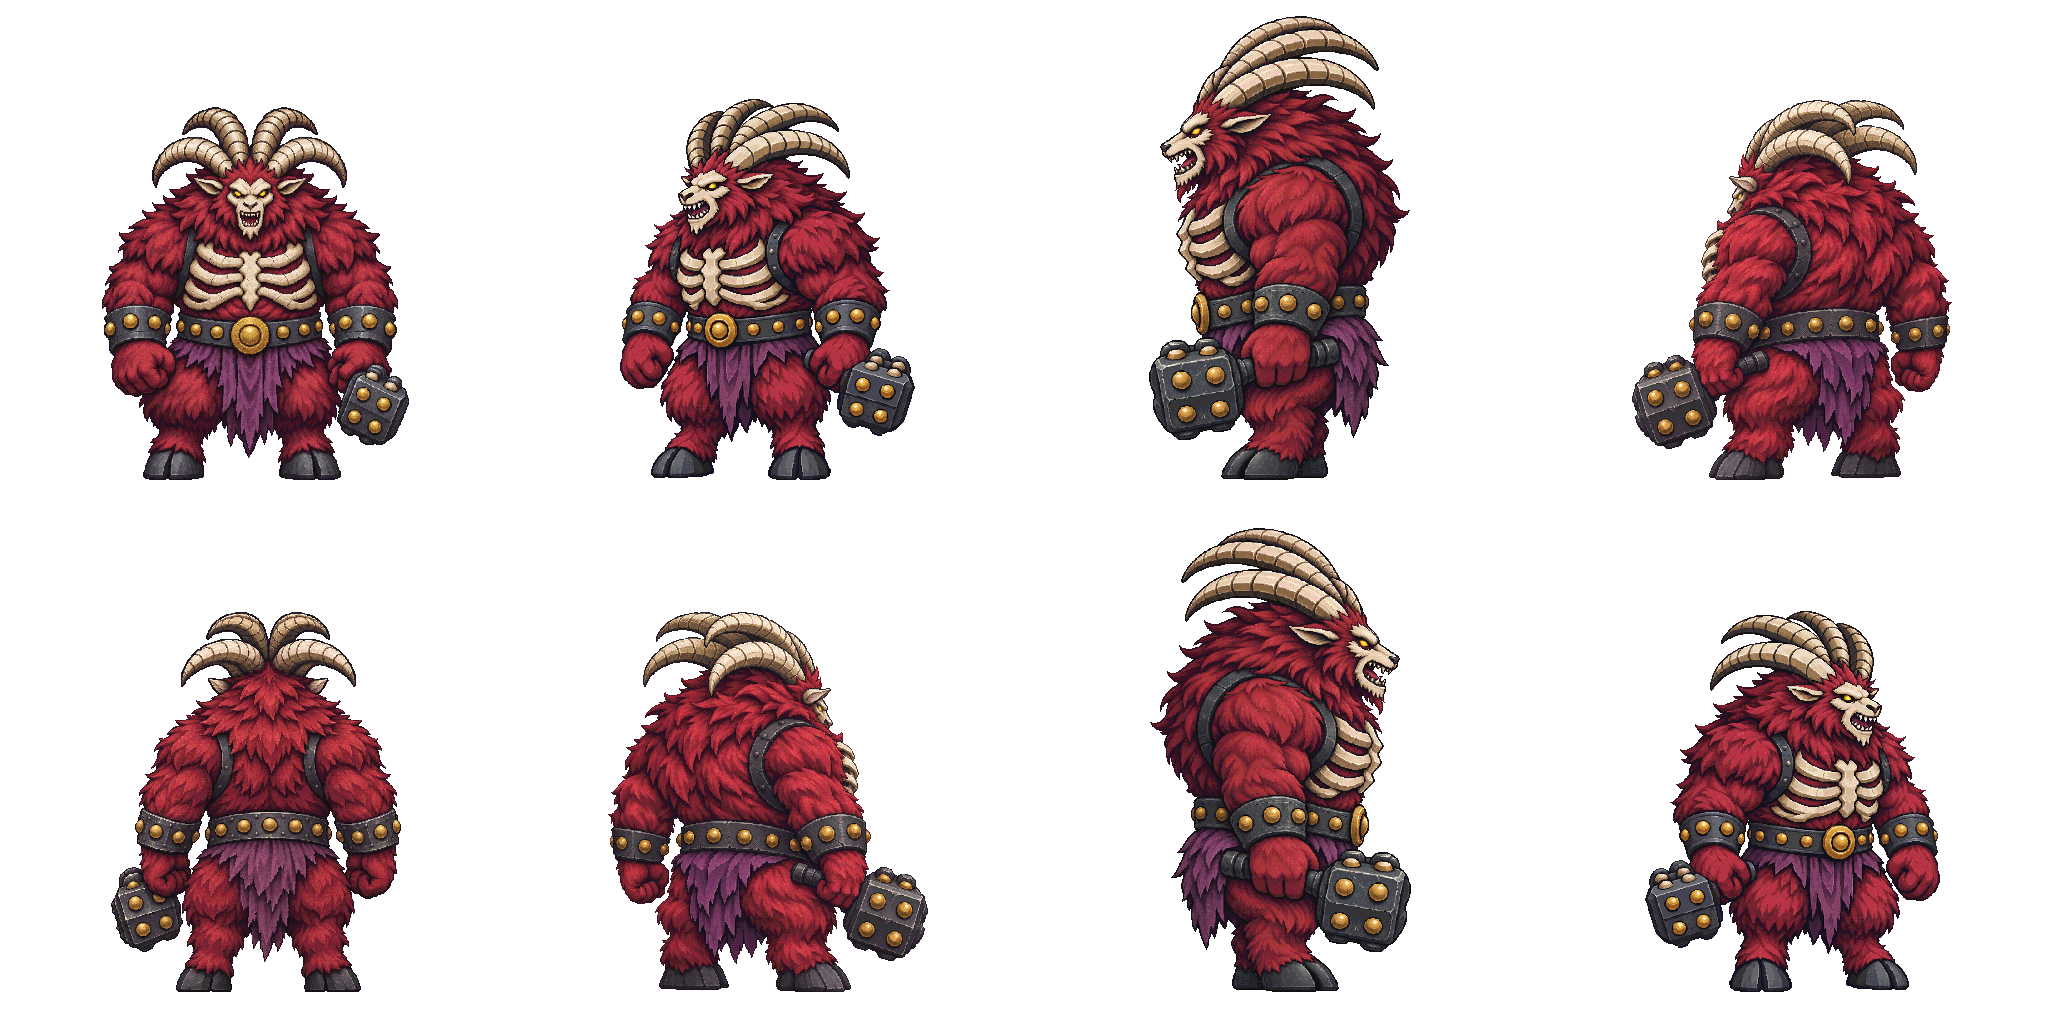
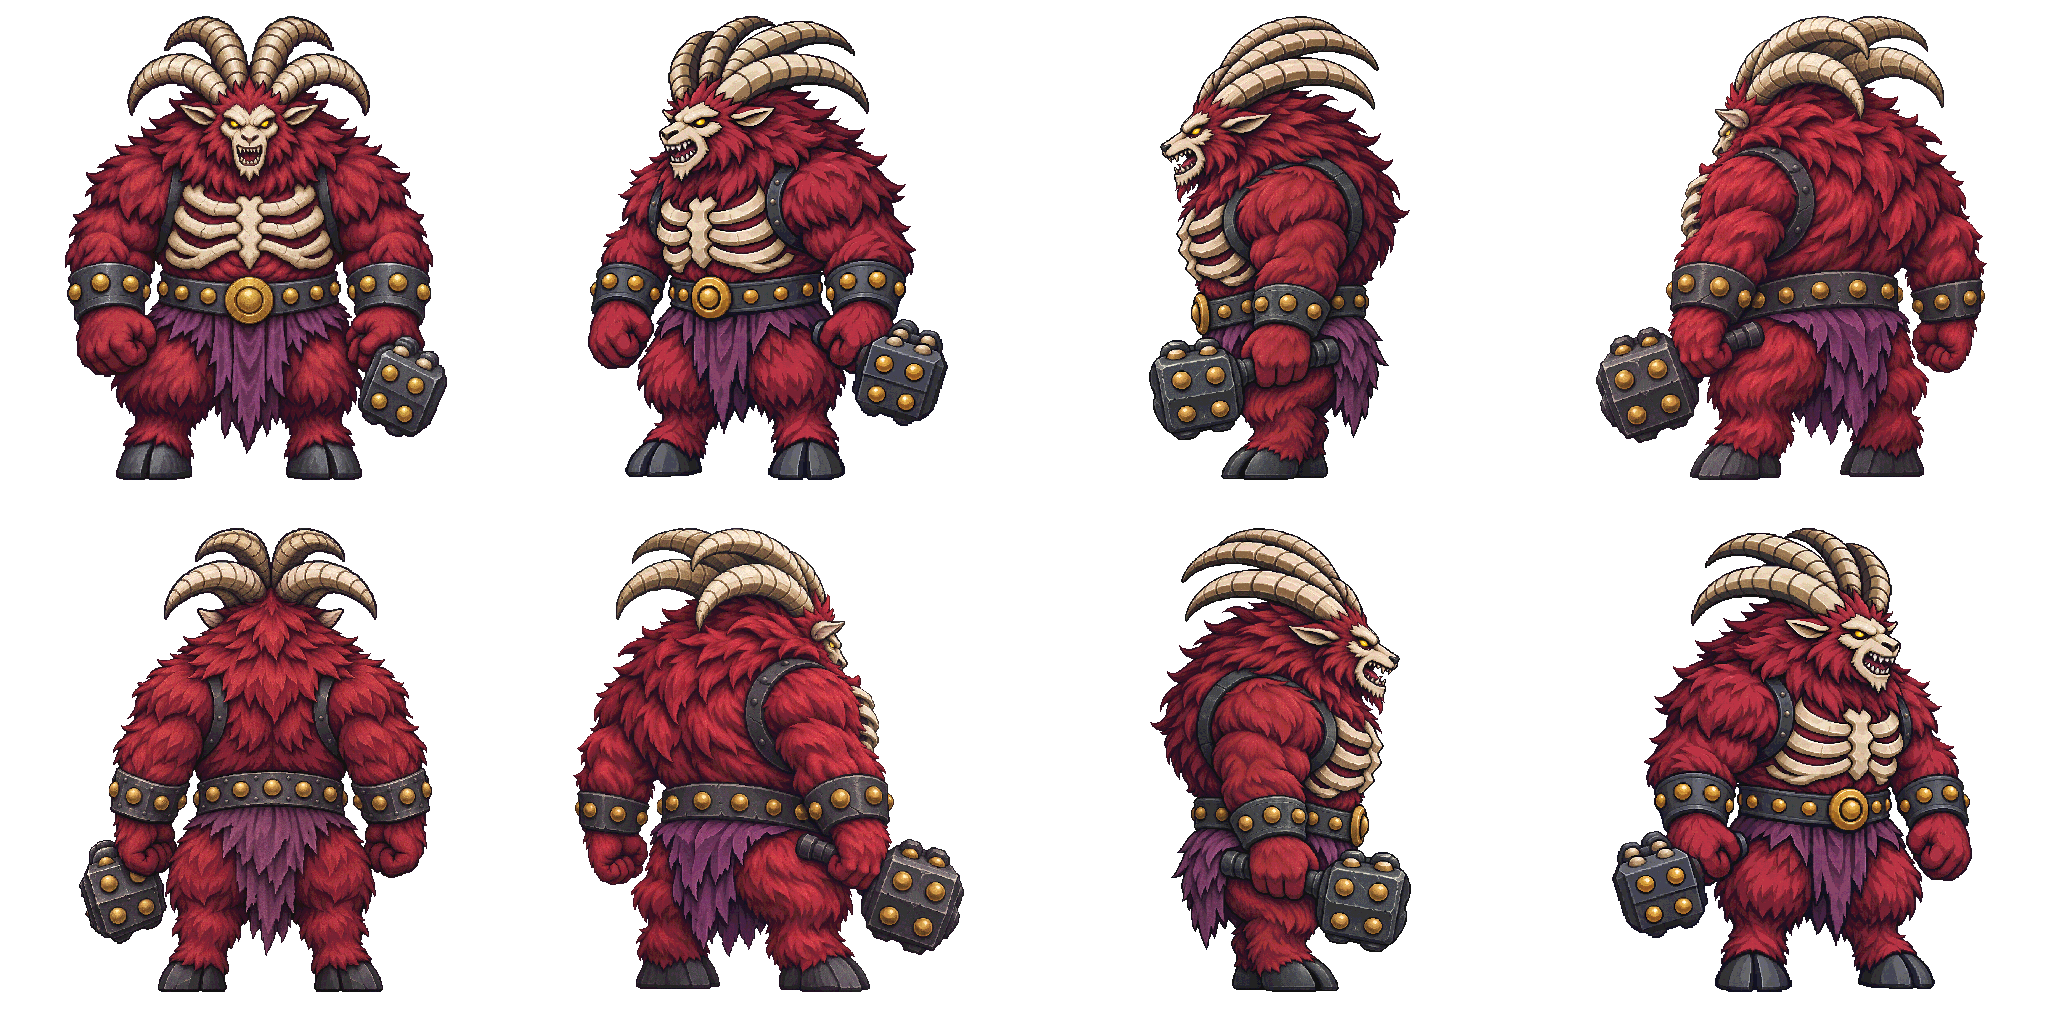
Publish pre-PixelLab concept bundle: goat_tyrant

diff --git a/리포트/projects/dotaction/posts/2026-11-20-result-20261120045239498-v1.0.0.md b/리포트/projects/dotaction/posts/2026-11-20-result-20261120045239498-v1.0.0.md
@@ -1,0 +1,57 @@
+---
+title: 핏빛 폭군 · 대형512칸 방향 원본 재제작
+date: 2026-11-20T04:52:39.498Z
+version: v1.0.0
+status: 검증 대기
+state: verification
+project: dotaction
+type: 작업 결과
+report_kind: result
+category: 작업 결과
+summary: 덩치에 비해 축소된 방향 시안을 한 칸512 기준으로 신규 재제작했습니다.
+format: tracefolio-v2
+priority: normal
+severity: normal
+reporter: Codex
+assignee: Codex
+payload: ../assets/submissions/2026-11-20-result-20261120045239498-v1.0.0.json
+---
+
+## 작업 결과
+
+핏빛 폭군의5방향을 각각 새로 그려512칸8방향 시트로 재구성했습니다. 기존64칸 확대가 아닙니다. 일러스트·T포즈는 기존 선택본을 유지합니다. 전체 최신화는 진행 중입니다.
+
+![일러스트](../assets/pre-pixellab-goat_tyrant-512-20261120/illustration.webp)
+
+![정후면 몸체와 분리 장비](../assets/pre-pixellab-goat_tyrant-512-20261120/tpose.webp)
+
+![512칸8방향 · 전체2048×1024](../assets/pre-pixellab-goat_tyrant-512-20261120/directions.webp)
+
+## 변경 내용
+
+### 적용 내용
+
+Massive muscular crimson-furred goat tyrant, four swept back horns forming a crown, bone chest plate, giant iron knuckle club. Barrel torso and short legs, no wings.
+
+일러스트 자세: Towering dominant roar, chest thrust forward, arms spread wide gripping its weapons, one hoof on invisible higher footing, no rock or pedestal
+
+일러스트·프로필·몸체 정후면·분리 장비·방향 원본·128 패딩본·대기 참조·출처/프롬프트/해시를 art/characters/핏빛폭군에 저장했습니다. 문서 아카이브도 같은 시안으로 연결했습니다. 게임 모션·공격·FX는 교체하지 않았습니다.
+
+### 대화 기록
+사용자 요청: 누락된 캐릭터/몬스터를 PixelLab 전 단계까지 최신화하고 한 종씩 보고. 몬스터 일러스트는 다양한 자세로 위협적이고 무섭게 제작.
+
+후속 요청: 덩치에 비해 작아진 몬스터는512로 늘려 다시 제작. 종별 대형 규격 허용.5방향 각각 ImageGen 신규 제작→512칸 픽셀 파생→3정확한 반전→전체2048×1024.512 대기 참조를 제공하며 이전64/128 방향 파생과 제작 원본은 ZIP에 보존했습니다.
+
+## 검증
+
+실제 신규5방향 원본과512칸 결과 외형 확인. 전체2048×1024, 칸512×512, NE=NW/E=W/SE=SW 정확한 바이트 반전 확인. 과거 파일 ZIP 보관 후 해시 대조. 기존64칸 이미지를 확대하지 않았습니다. 선택 픽셀 파생만 정규화하고 문서 빌드·게시용 WebP 재열기 확인. PixelLab 호출0회, 게임 연결/실행/회귀 테스트 미실행.
+
+## 남은 사항
+
+최종 사용자 미감 승인 대기. PixelLab/리그 파츠/모션·FX·음향 신규 제작과 게임 연결은 이번 요청 범위 밖입니다. 전체 최신화의 나머지 대상은 진행 중입니다. SkillEvaluator는 스킬 변경이 없어 비대상, CLI-Anything은 GUI 조작 없이 ImageGen 및 기존 파일 API를 사용하여 비대상. 대형512칸 예외를 프로젝트 제작 지침과 문서에 반영했습니다. 업데이트 원격 확인 latest2026-11-20-011, 새 채팅 지침의 개별 시안 직접 표시 적용.
+
+## 작업 시간
+
+- 제안 시간: 512칸 대형 몬스터18종 재제작/제작으로 전체 예상에 약60~100분 추가. 종별 원본5장 신규 제작·보관·문서·게시.
+- 실제로 완료된 시간: 이 종512 재제작·정리 8.7분. 시작 2026-11-20T13:40:20.096000+09:00, 저장 2026-11-20T13:48:59.881302+09:00 (Asia/Seoul). 배포 대기 별도.
+- XERJ: 미사용 — 지침에 따라 사용하지 않음. 파일 검색 rg, 기존 이미지와 데이터 대조.
